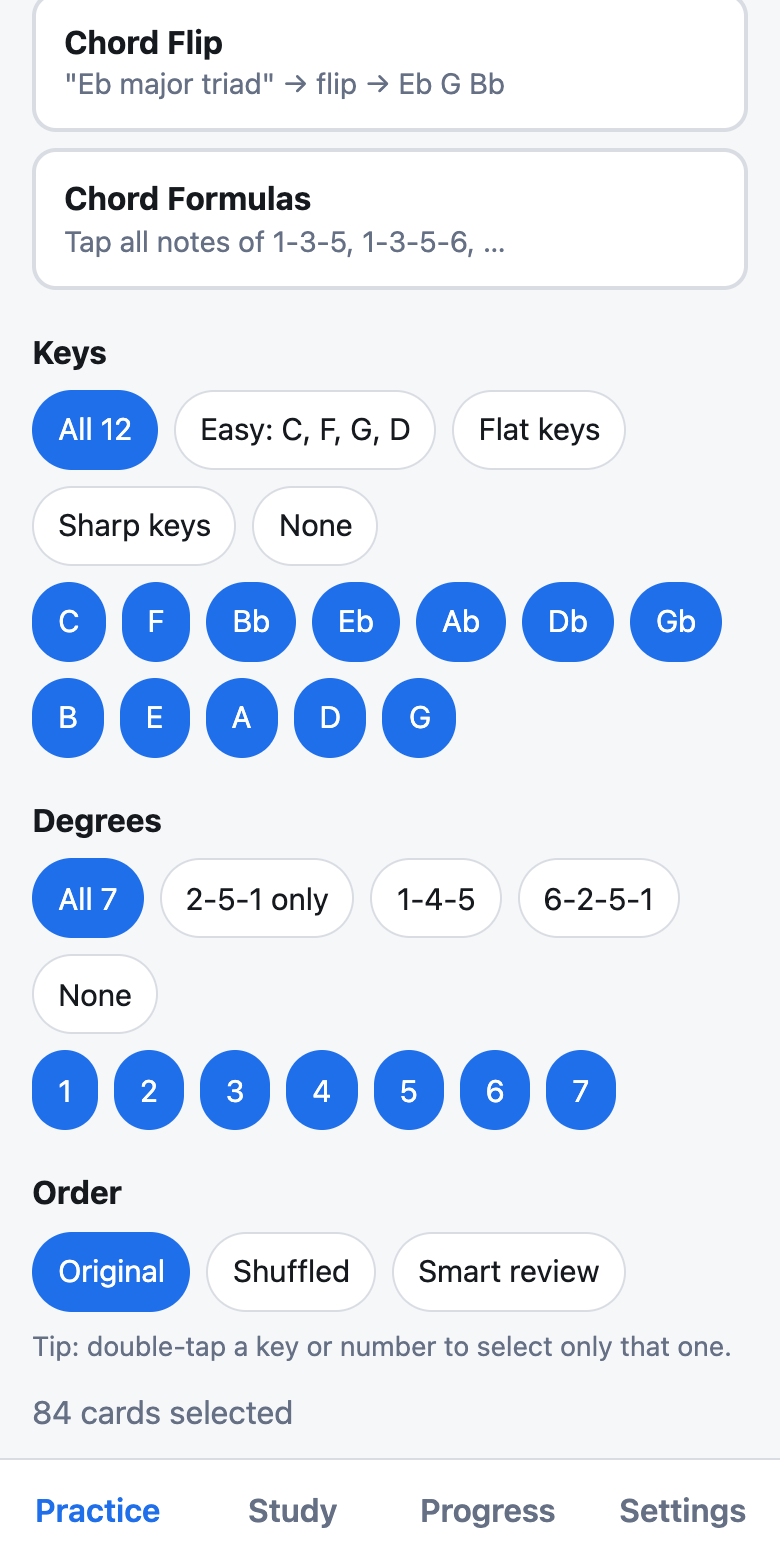
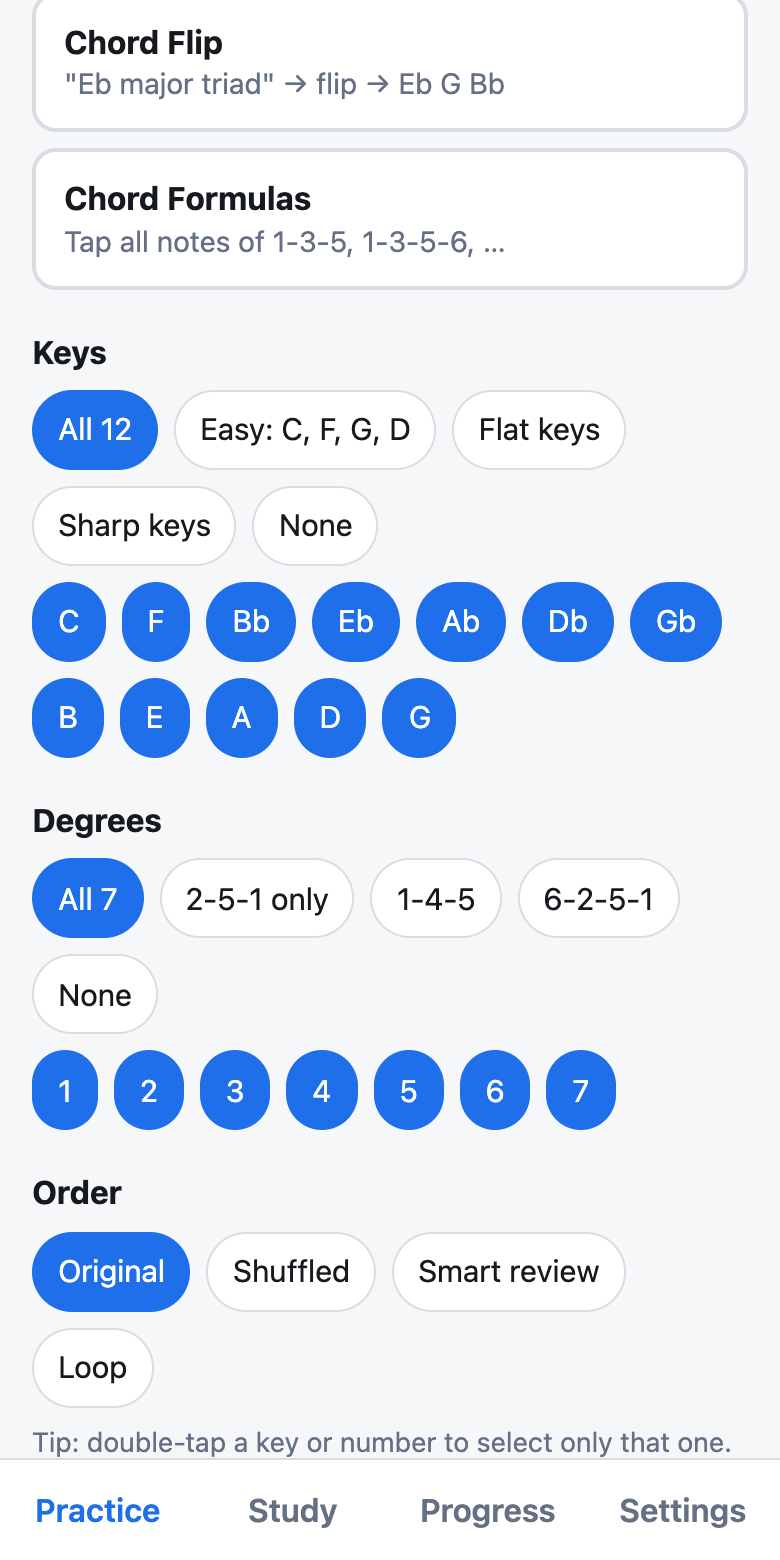
Add Loop order for Classic Flip and spoken answers
Loop repeats the selected cards until you quit and shows rep count and flip
times; it does not touch spaced-repetition stats. Speak answers is a new
setting that says the answer out loud on flip in Classic Flip, Loop and
Chord Flip. Docs, screenshots and tests updated.

diff --git a/src/data/chords.ts b/src/data/chords.ts
@@ -6,6 +6,8 @@ export interface ChordType {
   name: string
   /** Short label for the progress grid. */
   short: string
+  /** How to say the name out loud (speech engines misread "m7b5" and "7sus4"). */
+  spoken: string
   family: ChordFamily
   /** Tones as written in a chord formula: a scale degree with an optional b/# (9 = 2nd an octave up). */
   formula: string[]
@@ -20,22 +22,22 @@ export const FAMILIES: { id: ChordFamily; label: string }[] = [
 ]
 
 export const CHORD_TYPES: ChordType[] = [
-  { id: 'maj', name: 'Major triad', short: 'Maj', family: 'major', formula: ['1', '3', '5'] },
-  { id: 'maj6', name: 'Major 6', short: '6', family: 'major', formula: ['1', '3', '5', '6'] },
-  { id: 'maj7', name: 'Major 7', short: 'Maj7', family: 'major', formula: ['1', '3', '5', '7'] },
-  { id: 'add9', name: 'Add 9', short: 'Add9', family: 'major', formula: ['1', '3', '5', '9'] },
-  { id: 'min', name: 'Minor triad', short: 'm', family: 'minor', formula: ['1', 'b3', '5'] },
-  { id: 'min6', name: 'Minor 6', short: 'm6', family: 'minor', formula: ['1', 'b3', '5', '6'] },
-  { id: 'min7', name: 'Minor 7', short: 'm7', family: 'minor', formula: ['1', 'b3', '5', 'b7'] },
-  { id: 'min9', name: 'Minor 9', short: 'm9', family: 'minor', formula: ['1', 'b3', '5', 'b7', '9'] },
-  { id: 'dom7', name: 'Dominant 7', short: '7', family: 'dominant', formula: ['1', '3', '5', 'b7'] },
-  { id: 'dom9', name: 'Dominant 9', short: '9', family: 'dominant', formula: ['1', '3', '5', 'b7', '9'] },
-  { id: 'sus4', name: 'Sus4', short: 'sus4', family: 'sus', formula: ['1', '4', '5'] },
-  { id: 'sus2', name: 'Sus2', short: 'sus2', family: 'sus', formula: ['1', '2', '5'] },
-  { id: 'sus47', name: '7sus4', short: '7sus4', family: 'sus', formula: ['1', '4', '5', 'b7'] },
-  { id: 'dim', name: 'Diminished', short: 'dim', family: 'dim', formula: ['1', 'b3', 'b5'] },
-  { id: 'hdim', name: 'Half-dim m7b5', short: 'm7b5', family: 'dim', formula: ['1', 'b3', 'b5', 'b7'] },
-  { id: 'aug', name: 'Augmented', short: 'aug', family: 'dim', formula: ['1', '3', '#5'] },
+  { id: 'maj', name: 'Major triad', short: 'Maj', spoken: 'major triad', family: 'major', formula: ['1', '3', '5'] },
+  { id: 'maj6', name: 'Major 6', short: '6', spoken: 'major six', family: 'major', formula: ['1', '3', '5', '6'] },
+  { id: 'maj7', name: 'Major 7', short: 'Maj7', spoken: 'major seven', family: 'major', formula: ['1', '3', '5', '7'] },
+  { id: 'add9', name: 'Add 9', short: 'Add9', spoken: 'add nine', family: 'major', formula: ['1', '3', '5', '9'] },
+  { id: 'min', name: 'Minor triad', short: 'm', spoken: 'minor triad', family: 'minor', formula: ['1', 'b3', '5'] },
+  { id: 'min6', name: 'Minor 6', short: 'm6', spoken: 'minor six', family: 'minor', formula: ['1', 'b3', '5', '6'] },
+  { id: 'min7', name: 'Minor 7', short: 'm7', spoken: 'minor seven', family: 'minor', formula: ['1', 'b3', '5', 'b7'] },
+  { id: 'min9', name: 'Minor 9', short: 'm9', spoken: 'minor nine', family: 'minor', formula: ['1', 'b3', '5', 'b7', '9'] },
+  { id: 'dom7', name: 'Dominant 7', short: '7', spoken: 'dominant seven', family: 'dominant', formula: ['1', '3', '5', 'b7'] },
+  { id: 'dom9', name: 'Dominant 9', short: '9', spoken: 'dominant nine', family: 'dominant', formula: ['1', '3', '5', 'b7', '9'] },
+  { id: 'sus4', name: 'Sus4', short: 'sus4', spoken: 'suspended four', family: 'sus', formula: ['1', '4', '5'] },
+  { id: 'sus2', name: 'Sus2', short: 'sus2', spoken: 'suspended two', family: 'sus', formula: ['1', '2', '5'] },
+  { id: 'sus47', name: '7sus4', short: '7sus4', spoken: 'seven suspended four', family: 'sus', formula: ['1', '4', '5', 'b7'] },
+  { id: 'dim', name: 'Diminished', short: 'dim', spoken: 'diminished', family: 'dim', formula: ['1', 'b3', 'b5'] },
+  { id: 'hdim', name: 'Half-dim m7b5', short: 'm7b5', spoken: 'half diminished', family: 'dim', formula: ['1', 'b3', 'b5', 'b7'] },
+  { id: 'aug', name: 'Augmented', short: 'aug', spoken: 'augmented', family: 'dim', formula: ['1', '3', '#5'] },
 ]
 
 /** The four chords the app started with (the Major family); they stay the default selection. */

diff --git a/tests/speech.test.ts b/tests/speech.test.ts
@@ -1,0 +1,42 @@
+import { describe, expect, it } from 'vitest'
+import { CHORD_TYPES } from '../src/data/chords'
+import { ANSWERS, KEYS } from '../src/data/deck'
+import { chordNotes } from '../src/lib/chordNotes'
+import { chordCardSpeech, noteWords, scaleCardSpeech } from '../src/lib/speech'
+
+// Words a speech engine reads correctly: a letter name, then nothing, "flat"/"sharp", or "double flat"/"double sharp".
+const SPOKEN_NOTE = /^(ay|bee|see|dee|ee|eff|gee)( (double )?(flat|sharp))?$/
+
+describe('speech wording', () => {
+  it('writes accidentals out in words', () => {
+    expect(noteWords('Bb')).toBe('bee flat')
+    expect(noteWords('F#')).toBe('eff sharp')
+    expect(noteWords('A')).toBe('ay')
+    expect(noteWords('Bbb')).toBe('bee double flat')
+    expect(noteWords('C##')).toBe('see double sharp')
+  })
+
+  it('speaks every note that any card can show as plain words', () => {
+    const notes = new Set<string>()
+    for (const key of KEYS) {
+      ANSWERS[key].forEach((n) => notes.add(n))
+      for (const sharpGb of [false, true])
+        for (const type of CHORD_TYPES) chordNotes(key, type, sharpGb).forEach((n) => notes.add(n))
+    }
+    notes.add('F#')
+    for (const n of notes) expect(noteWords(n), n).toMatch(SPOKEN_NOTE)
+  })
+
+  it('builds the sentences', () => {
+    expect(scaleCardSpeech(2, 'F', 'G')).toBe('second tone of eff is gee')
+    expect(scaleCardSpeech(5, 'Eb', 'Bb')).toBe('fifth tone of ee flat is bee flat')
+    const min7 = CHORD_TYPES.find((t) => t.id === 'min7')!
+    expect(chordCardSpeech('Eb', min7, ['Eb', 'Gb', 'Bb', 'Db'])).toBe(
+      'ee flat minor seven is ee flat, gee flat, bee flat, dee flat',
+    )
+  })
+
+  it('gives every chord type a spoken name without digits or symbols', () => {
+    for (const t of CHORD_TYPES) expect(t.spoken, t.id).toMatch(/^[a-z ]+$/)
+  })
+})

diff --git a/src/components/FilterPanel.tsx b/src/components/FilterPanel.tsx
@@ -6,12 +6,13 @@ import { useDoubleTap } from '../lib/useDoubleTap'
 const same = (a: unknown[], b: unknown[]) => a.length === b.length && a.every((x) => b.includes(x))
 const toggle = <T,>(arr: T[], x: T) => (arr.includes(x) ? arr.filter((y) => y !== x) : [...arr, x])
 
-export function FilterPanel({ filter, onChange, sharpGb, showOrder = true }: {
-  filter: Filter; onChange: (f: Filter) => void; sharpGb: boolean; showOrder?: boolean
+export function FilterPanel({ filter, onChange, sharpGb, showOrder = true, showLoop = false }: {
+  filter: Filter; onChange: (f: Filter) => void; sharpGb: boolean; showOrder?: boolean; showLoop?: boolean
 }) {
   // Tapping a chip twice quickly selects only that chip.
   const isDoubleTap = useDoubleTap()
   const orders: [Order, string][] = [['original', 'Original'], ['shuffled', 'Shuffled'], ['smart', 'Smart review']]
+  if (showLoop) orders.push(['loop', 'Loop'])
   return (
     <div className="filters">
       <h3>Keys</h3>
@@ -50,10 +51,13 @@ export function FilterPanel({ filter, onChange, sharpGb, showOrder = true }: {
               <button key={o} className={`chip ${filter.order === o ? 'on' : ''}`} onClick={() => onChange({ ...filter, order: o })}>{label}</button>
             ))}
           </div>
+          {filter.order === 'loop' && (
+            <p className="muted hint">Loop repeats your selected cards until you quit. Double-tap a key and a number to repeat a single card.</p>
+          )}
         </>
       )}
       <p className="muted hint">Tip: double-tap a key or number to select only that one.</p>
-      <p className="muted">{filterCards(filter).length} cards selected</p>
+      <p className="muted">{filterCards(filter).length === 1 ? '1 card selected' : `${filterCards(filter).length} cards selected`}</p>
     </div>
   )
 }

diff --git a/src/screens/LoopSession.tsx b/src/screens/LoopSession.tsx
@@ -1,0 +1,44 @@
+import { useState } from 'react'
+import { Filter, filterCards } from '../lib/session'
+import { ClassicFlip } from '../modes/ClassicFlip'
+import { useApp } from '../state/store'
+
+const secs = (ms: number) => `${(ms / 1000).toFixed(1)}s`
+
+/**
+ * Classic Flip on repeat: the selected cards cycle until you quit (one card = the same card every time).
+ * Back-to-back repeats are not spaced recall, so these answers deliberately do not touch the
+ * spaced-repetition stats or the day streak.
+ */
+export function LoopSession({ filter, onExit }: { filter: Filter; onExit: () => void }) {
+  const { settings } = useApp()
+  const [cards] = useState(() => filterCards(filter))
+  const [i, setI] = useState(0)
+  const [tally, setTally] = useState({ right: 0, wrong: 0, total: 0, last: 0, best: 0 })
+
+  const reps = tally.right + tally.wrong
+  const card = cards[i % cards.length]
+  const onAnswer = (ok: boolean, ms: number) =>
+    setTally((t) => ({
+      right: t.right + (ok ? 1 : 0),
+      wrong: t.wrong + (ok ? 0 : 1),
+      total: t.total + ms,
+      last: ms,
+      best: t.best === 0 ? ms : Math.min(t.best, ms),
+    }))
+
+  return (
+    <div className="session">
+      <div className="topbar">
+        <button className="link" onClick={onExit}>Quit</button>
+        <span>{reps} {reps === 1 ? 'rep' : 'reps'}</span>
+        <span>{tally.right} ✓ · {tally.wrong} ✗</span>
+      </div>
+      <p className="muted loopstats">
+        {reps === 0 ? 'Flip the card, grade yourself, and it comes back.'
+          : `Last ${secs(tally.last)} · Average ${secs(tally.total / reps)} · Fastest ${secs(tally.best)}`}
+      </p>
+      <ClassicFlip key={i} card={card} settings={settings} onAnswer={onAnswer} onNext={() => setI((x) => x + 1)} />
+    </div>
+  )
+}

diff --git a/src/lib/speech.ts b/src/lib/speech.ts
@@ -1,0 +1,38 @@
+import type { ChordType } from '../data/chords'
+
+// Speech engines read "Bb" as "B B" and "A" as the word "a", so note names are written out in words.
+const LETTER: Record<string, string> = { A: 'ay', B: 'bee', C: 'see', D: 'dee', E: 'ee', F: 'eff', G: 'gee' }
+const ORDINAL: Record<number, string> = { 1: 'first', 2: 'second', 3: 'third', 4: 'fourth', 5: 'fifth', 6: 'sixth', 7: 'seventh' }
+
+/** "Bb" -> "bee flat", "F#" -> "eff sharp", "Bbb" -> "bee double flat". */
+export function noteWords(note: string): string {
+  const acc = note.slice(1)
+  const word = acc.startsWith('b') ? 'flat' : acc.startsWith('#') ? 'sharp' : ''
+  return [LETTER[note[0]], acc.length > 1 ? 'double' : '', word].filter(Boolean).join(' ')
+}
+
+/** "Second tone of F is G". */
+export function scaleCardSpeech(degree: number, keyName: string, answer: string): string {
+  return `${ORDINAL[degree]} tone of ${noteWords(keyName)} is ${noteWords(answer)}`
+}
+
+/** "E flat minor seven is E flat, G flat, B flat, D flat". */
+export function chordCardSpeech(keyName: string, type: ChordType, notes: string[]): string {
+  return `${noteWords(keyName)} ${type.spoken} is ${notes.map(noteWords).join(', ')}`
+}
+
+export const canSpeak = () => typeof window !== 'undefined' && 'speechSynthesis' in window
+
+/** Speaks `text`, replacing anything still being said. Silent if the browser has no speech support. */
+export function speak(text: string) {
+  try {
+    if (!canSpeak()) return
+    window.speechSynthesis.cancel()
+    const u = new SpeechSynthesisUtterance(text)
+    u.lang = 'en-US'
+    u.rate = 0.95
+    window.speechSynthesis.speak(u)
+  } catch {
+    /* speech is optional */
+  }
+}

diff --git a/src/modes/ChordFlip.tsx b/src/modes/ChordFlip.tsx
@@ -2,6 +2,7 @@ import { useRef, useState } from 'react'
 import { CHORD_TYPES, ChordType, DEFAULT_CHORD_TYPES, chordCardId } from '../data/chords'
 import { KEYS, Key } from '../data/deck'
 import { playChord } from '../lib/audio'
+import { chordCardSpeech, speak } from '../lib/speech'
 import { smartOrder } from '../lib/leitner'
 import { SMART_SESSION_SIZE, shuffle } from '../lib/session'
 import { chordNotes } from '../lib/chordNotes'
@@ -61,10 +62,10 @@ export function ChordFlip({ keys, onExit }: { keys: Key[]; onExit: () => void })
         </div>
       </div>
     )
-  return <FlipRound queue={queue} onExit={onExit} muted={settings.muted} />
+  return <FlipRound queue={queue} onExit={onExit} muted={settings.muted} speakAnswers={settings.speak} />
 }
 
-function FlipRound({ queue, onExit, muted }: { queue: ChordCard[]; onExit: () => void; muted: boolean }) {
+function FlipRound({ queue, onExit, muted, speakAnswers }: { queue: ChordCard[]; onExit: () => void; muted: boolean; speakAnswers: boolean }) {
   const { recordChord } = useApp()
   const [i, setI] = useState(0)
   const [flipped, setFlipped] = useState(false)
@@ -80,6 +81,7 @@ function FlipRound({ queue, onExit, muted }: { queue: ChordCard[]; onExit: () =>
     flipMs.current = Math.round(performance.now() - shownAt.current)
     setFlipped(true)
     playChord(card.notes.map(pitchClass), muted)
+    if (speakAnswers) speak(chordCardSpeech(card.keyName, card.type, card.notes))
   }
   const mark = (ok: boolean) => {
     recordChord(ok, card.id, flipMs.current)

diff --git a/src/screens/Home.tsx b/src/screens/Home.tsx
@@ -27,13 +27,13 @@ export function Home({ onStart, filter, setFilter }: { onStart: (m: Mode) => voi
       <p className="muted">Name any scale degree in any major key, instantly.</p>
       <div className="modes">
         {MODES.map((m) => (
-          <button key={m.id} className={`mode ${mode === m.id ? 'on' : ''}`} onClick={() => setMode(m.id)}>
+          <button key={m.id} className={`mode ${mode === m.id ? 'on' : ''}`} onClick={() => { setMode(m.id); if (m.id !== 'flip' && filter.order === 'loop') setFilter({ ...filter, order: 'original' }) }}>
             <b>{m.name}</b><span>{m.desc}</span>
           </button>
         ))}
       </div>
       <FilterPanel filter={filter} onChange={setFilter} sharpGb={settings.sharpGb}
-        showOrder={mode !== 'speed' && mode !== 'chords' && mode !== 'chordflip'} />
+        showOrder={mode !== 'speed' && mode !== 'chords' && mode !== 'chordflip'} showLoop={mode === 'flip'} />
       <button className="btn primary wide start" disabled={disabled} onClick={() => onStart(mode)}>Start</button>
       <button className="link" onClick={() => setFilter(defaultFilter())}>Reset filters</button>
     </div>

diff --git a/src/screens/Settings.tsx b/src/screens/Settings.tsx
@@ -1,4 +1,5 @@
 import { useRef, useState } from 'react'
+import { canSpeak } from '../lib/speech'
 import { exportJson, parseImport } from '../lib/storage'
 import { useApp } from '../state/store'
 
@@ -27,6 +28,8 @@ export function Settings() {
       <h1>Settings</h1>
       <label className="setting"><span>Sound</span>
         <input type="checkbox" checked={!settings.muted} onChange={(e) => setSettings({ muted: !e.target.checked })} /></label>
+      <label className="setting"><span>Speak answers<small>{canSpeak() ? 'Says the answer out loud when you flip a card' : 'Not supported in this browser'}</small></span>
+        <input type="checkbox" checked={settings.speak} disabled={!canSpeak()} onChange={(e) => setSettings({ speak: e.target.checked })} /></label>
       <label className="setting"><span>F# instead of Gb<small>Shows Gb major as F# major</small></span>
         <input type="checkbox" checked={settings.sharpGb} onChange={(e) => setSettings({ sharpGb: e.target.checked })} /></label>
       <label className="setting"><span>Theme</span>

diff --git a/src/App.tsx b/src/App.tsx
@@ -1,6 +1,7 @@
 import { useState } from 'react'
 import { ChordDrill } from './modes/ChordDrill'
 import { ChordFlip } from './modes/ChordFlip'
+import { LoopSession } from './screens/LoopSession'
 import { SpeedRound } from './modes/SpeedRound'
 import { Home } from './screens/Home'
 import { Progress } from './screens/Progress'
@@ -24,6 +25,7 @@ function Shell() {
     return (
       <main className="app">
         {mode === 'speed' ? <SpeedRound filter={filter} onExit={exit} />
+          : mode === 'flip' && filter.order === 'loop' ? <LoopSession filter={filter} onExit={exit} />
           : mode === 'chordflip' ? <ChordFlip keys={filter.keys} onExit={exit} />
           : mode === 'chords' ? <ChordDrill keys={filter.keys} onExit={exit} />
           : <Session mode={mode} filter={filter} onExit={exit} />}

diff --git a/tests/logic.test.ts b/tests/logic.test.ts
@@ -63,6 +63,12 @@ describe('session + storage', () => {
     expect(buildQueue(defaultFilter(), {})).toHaveLength(84)
     expect(KEYS).toHaveLength(12)
   })
+  it('loop order keeps the selected cards in original order (the loop screen does the repeating)', () => {
+    const f = { ...defaultFilter(), keys: ['Eb' as const], degrees: [5 as const], order: 'loop' as const }
+    expect(buildQueue(f, {}).map((c) => c.id)).toEqual(['Eb-5'])
+    const g = { ...defaultFilter(), keys: ['C' as const, 'G' as const], degrees: [2 as const, 5 as const], order: 'loop' as const }
+    expect(buildQueue(g, {}).map((c) => c.id)).toEqual(['C-2', 'G-2', 'C-5', 'G-5'])
+  })
   it('computes day streaks', () => {
     const now = new Date(2026, 5, 10, 12).getTime()
     const d = (n: number) => dayKey(now - n * 86400000)

diff --git a/src/modes/ClassicFlip.tsx b/src/modes/ClassicFlip.tsx
@@ -2,6 +2,7 @@ import { useState } from 'react'
 import { ORDINAL } from '../data/deck'
 import { viewCard } from '../lib/cards'
 import { playPc } from '../lib/audio'
+import { scaleCardSpeech, speak } from '../lib/speech'
 import { pitchClass } from '../lib/theory'
 import { useElapsed } from '../lib/useElapsed'
 import { Card } from '../components/Card'
@@ -19,6 +20,7 @@ export function ClassicFlip({ card, settings, onAnswer, onNext }: QProps) {
     setMs(elapsed())
     setFlipped(true)
     playPc(pitchClass(v.answer), 4, settings.muted)
+    if (settings.speak) speak(scaleCardSpeech(card.degree, v.keyName, v.answer))
   }
   const mark = (ok: boolean) => {
     onAnswer(ok, ms)

diff --git a/src/lib/storage.ts b/src/lib/storage.ts
@@ -13,6 +13,7 @@ export interface CardStats {
 export interface Settings {
   sharpGb: boolean
   muted: boolean
+  speak: boolean
   theme: Theme
 }
 
@@ -35,7 +36,7 @@ export const defaultStore = (): Store => ({
   daily: {},
   total: 0,
   chords: { correct: 0, missed: 0 },
-  settings: { sharpGb: false, muted: false, theme: 'system' },
+  settings: { sharpGb: false, muted: false, speak: false, theme: 'system' },
 })
 
 function normalize(raw: unknown): Store | null {
